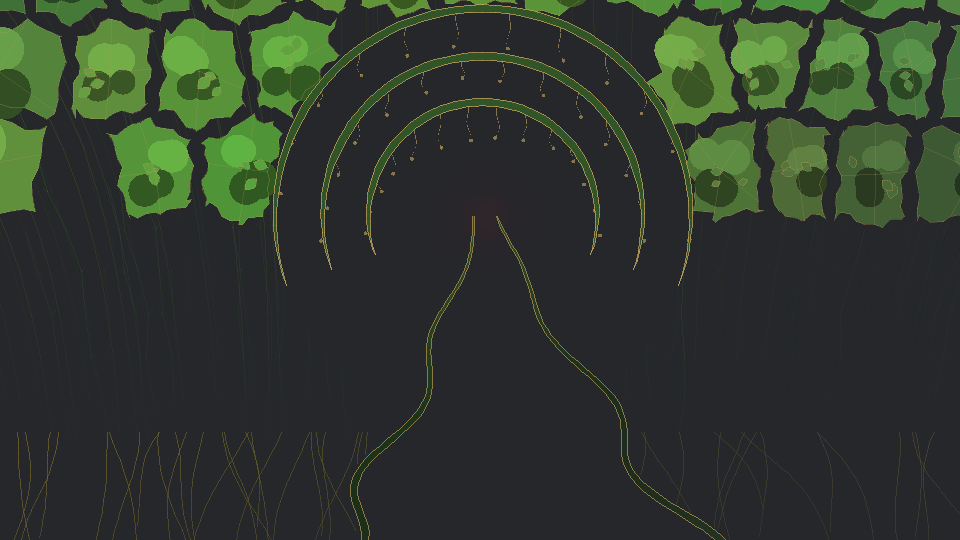
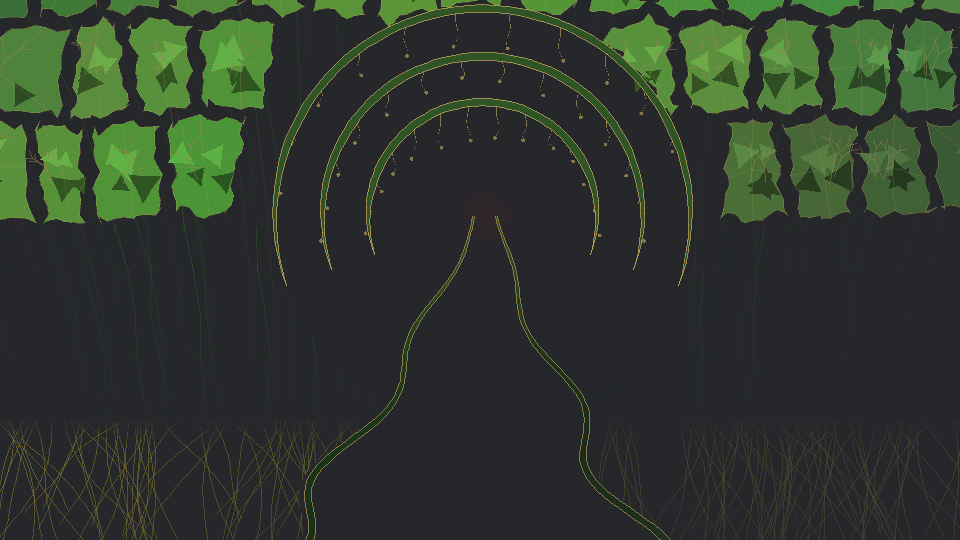
Heartwood (flagship): angular/fractal canopy texture; clustered roots
- Canopy: smaller crown sections; replace the soft inner circles with an
  angular fractal interior — faceted shards (two-tone for volume) plus
  recursive branching fronds. Crown-shyness channels preserved.
- Roots: thicker and more numerous, grouped into a clustered fan (2-4 per
  tree), with an alpha fade-in at the top so they blend into where the
  trees fade out.
- Refresh the flagship thumbnail and Wallpaper Engine zip.

diff --git a/heartwood.html b/heartwood.html
@@ -426,15 +426,18 @@
         var dxc = Math.max(-1, Math.min(1, (baseX - w * 0.5) / (w * 0.5))); // -1 left .. +1 right
         var edge = Math.max(0, (Math.abs(dxc) - 0.25) / 0.75);            // 0 near path, 1 at edge
         var centerF = 1 + 0.35 * (1 - Math.abs(dxc));                     // trees nearer centre thicker
-        var rootDefs = [];                                               // fewer, varied descending roots
-        var nrk = Math.random() < 0.55 ? (Math.random() < 0.25 ? 2 : 1) : 0;
-        for (var rk = 0; rk < nrk; rk++) {
-          rootDefs.push({
-            dx: (Math.random() - 0.5) * minDim * 0.012,   // slight start offset
-            dir: (Math.random() - 0.5) * 1.0, lenF: 0.72 + Math.random() * 0.6,
-            coil: 0.08 + Math.random() * 0.24, amp: 0.16 + Math.random() * 0.3,
-            ph: Math.random() * Math.PI * 2, spd: 0.4 + Math.random() * 0.6, thick: 0.75 + Math.random() * 1.15
-          });
+        var rootDefs = [];                                               // a clustered fan of descending roots
+        if (Math.random() < 0.72) {
+          var nrk = 2 + Math.floor(Math.random() * 3);                   // 2-4 roots per cluster
+          for (var rk = 0; rk < nrk; rk++) {
+            var rfrac = nrk > 1 ? rk / (nrk - 1) : 0.5;
+            rootDefs.push({
+              dx: (rfrac - 0.5) * minDim * 0.028 + (Math.random() - 0.5) * minDim * 0.006, // clustered fan offset
+              dir: (rfrac - 0.5) * 0.95 + (Math.random() - 0.5) * 0.25, lenF: 0.75 + Math.random() * 0.55,
+              coil: 0.08 + Math.random() * 0.24, amp: 0.16 + Math.random() * 0.3,
+              ph: Math.random() * Math.PI * 2, spd: 0.4 + Math.random() * 0.6, thick: 1.0 + Math.random() * 1.3
+            });
+          }
         }
         trees.push({
           x: baseX,
@@ -779,21 +782,22 @@
                        + rt.coil * Math.sin(prog * 2 + rt.ph);
         ang += (Math.PI / 2 - ang) * 0.06;                 // gentle pull back toward down
         x += Math.cos(ang) * step; y += Math.sin(ang) * step;
-        var wd = baseThick * rt.thick * Math.pow(1 - prog, 0.7) + 0.4;
-        var style = 'hsla(' + rhue + ', ' + rsat + '%, ' + rl + '%, ' + (0.62 * (1 - 0.4 * prog)).toFixed(3) + ')';
+        var wd = baseThick * rt.thick * Math.pow(1 - prog, 0.7) + 0.5;
+        var aRoot = 0.62 * Math.min(1, prog * 4) * (1 - 0.3 * prog); // fade in at the top, taper at the tip
+        var style = 'hsla(' + rhue + ', ' + rsat + '%, ' + rl + '%, ' + aRoot.toFixed(3) + ')';
         drawRootSeg(ctx, prev, { x: x, y: y }, style, wd, ax, ay, w, h, margin);
         prev = { x: x, y: y };
       }
     }
 
     function drawRoots(ctx, w, h, t, ax, ay) {
-      var gy = h * 0.8, margin = minDim * 0.01;
+      var gy = h * 0.78, margin = minDim * 0.01;
       for (var i = 0; i < trees.length; i++) {
         var tr = trees[i], gx = tr.x;
         if (rootCleared(gx, gy, ax, ay, w, h, margin)) continue; // no tree here -> no roots
         var c = color.getCellColor(gx, gy, w, h);
         var rhue = c.h + (30 - c.h) * 0.72, rsat = Math.min(52, c.s * 1.15), rl = Math.min(40, c.l * 0.85);
-        var baseThick = 1.0 + 1.6 * tr.z;
+        var baseThick = 1.6 + 2.4 * tr.z;
         for (var k = 0; k < tr.roots.length; k++) growTreeRoot(ctx, gx, gy, tr.roots[k], i * 7 + k, t, ax, ay, w, h, baseThick, rhue, rsat, rl);
       }
     }
@@ -859,12 +863,21 @@
       return samp;
     }
 
+    // A fractal frond: an angular, self-similar branch (precomputed segments).
+    function buildFrond(x, y, ang, len, depth, out) {
+      var ex = x + Math.cos(ang) * len, ey = y + Math.sin(ang) * len;
+      out.push({ ax: x, ay: y, bx: ex, by: ey });
+      if (depth <= 0) return;
+      buildFrond(ex, ey, ang - 0.6, len * 0.6, depth - 1, out);
+      buildFrond(ex, ey, ang + 0.6, len * 0.6, depth - 1, out);
+    }
+
     function buildCanopy(w, h) {
       crowns = [];
       var ax = w * 0.5, ay = h * apexFrac.y;
       var Rbase = Math.min(ay * 0.96, minDim * 0.62) * 1.013;       // ring radius incl. max breath
       var CH = minDim * 0.014, LOBE = CH * 0.6, rimClamp = Rbase + CH + LOBE;
-      var spacing = minDim * 0.15, bandTop = -h * 0.06, drawBot = h * 0.33, gridBot = h * 0.5;
+      var spacing = minDim * 0.13, bandTop = -h * 0.06, drawBot = h * 0.33, gridBot = h * 0.5;
       var cols = Math.max(4, Math.round(w / spacing));
       var rows = Math.max(3, Math.round((gridBot - bandTop) / spacing));
       var seeds = [];
@@ -904,18 +917,22 @@
           if (rd < rimClamp) { var fz = rimClamp / rd; p.x = ax + rx * fz; p.y = ay + ry * fz; p.nx = rx / rd; p.ny = ry / rd; }
         }
         var col = color.getCellColor(cen.x, Math.max(0, cen.y), w, h), ext = Math.sqrt(polyArea(poly));
-        var clumps = [], dabs = [];
-        for (var cl = 0; cl < 4; cl++) {
-          var top = cl < 2;
-          clumps.push({ x: cen.x + (Math.random() - 0.5) * ext * 0.4, y: cen.y + (top ? -1 : 1) * ext * (0.08 + Math.random() * 0.14), r: ext * (0.13 + Math.random() * 0.09), light: top });
+        var shards = [], fronds = [];
+        for (var sh = 0; sh < 4; sh++) {                          // angular faceted shards (two-tone volume)
+          var top = sh < 2, scx = cen.x + (Math.random() - 0.5) * ext * 0.5, scy = cen.y + (top ? -1 : 1) * ext * (0.06 + Math.random() * 0.16);
+          var sr = ext * (0.12 + Math.random() * 0.1), nn = 6, base = Math.random() * Math.PI * 2, sp = [];
+          for (var v = 0; v < nn; v++) { var aa = base + v / nn * Math.PI * 2, rr = sr * (v % 2 === 0 ? 1 : 0.45); sp.push({ x: scx + Math.cos(aa) * rr, y: scy + Math.sin(aa) * rr }); }
+          shards.push({ pts: sp, light: top });
         }
-        for (var dd = 0; dd < 3; dd++) {
-          dabs.push({ ox: (Math.random() - 0.5) * ext * 0.45, oy: (Math.random() - 0.5) * ext * 0.38, ang: Math.random() * Math.PI * 2, L: ext * (0.11 + Math.random() * 0.07) });
+        for (var fr = 0; fr < 2; fr++) {                          // fractal fronds (angular, self-similar)
+          var fseg = [];
+          buildFrond(cen.x + (Math.random() - 0.5) * ext * 0.35, cen.y + ext * (0.05 + Math.random() * 0.12), -Math.PI / 2 + (Math.random() - 0.5) * 1.0, ext * (0.22 + Math.random() * 0.1), 2, fseg);
+          fronds.push(fseg);
         }
         crowns.push({
           samp: samp, cen: cen, CH: CH, LOBE: LOBE, seed: i * 1.7, seed2: i * 3.1,
           hue: col.h + (112 - col.h) * 0.5, sat: Math.min(48, col.s * 1.0), lit: Math.min(40, col.l * 0.82),
-          clumps: clumps, dabs: dabs
+          shards: shards, fronds: fronds
         });
       }
     }
@@ -931,14 +948,13 @@
           outer.push({ x: p.x - p.nx * inset, y: p.y - p.ny * inset });
         }
         App.fillPolygon(ctx, outer, 'hsl(' + cr.hue + ', ' + cr.sat + '%, ' + cr.lit + '%)');
-        for (var cl = 0; cl < cr.clumps.length; cl++) {
-          var k = cr.clumps[cl], ll = k.light ? Math.min(48, cr.lit * 1.22) : cr.lit * 0.6;
-          App.fillCircle(ctx, k.x, k.y, k.r, 'hsl(' + cr.hue + ', ' + cr.sat + '%, ' + ll + '%)');
+        for (var sh = 0; sh < cr.shards.length; sh++) {           // angular shards (two-tone volume)
+          var k = cr.shards[sh], ll = k.light ? Math.min(48, cr.lit * 1.22) : cr.lit * 0.58;
+          App.fillPolygon(ctx, k.pts, 'hsl(' + cr.hue + ', ' + cr.sat + '%, ' + ll + '%)');
         }
-        for (var dd = 0; dd < cr.dabs.length; dd++) {              // interior leaf dabs (leafy texture)
-          var db = cr.dabs[dd], lp = leafShape(cr.cen.x + db.ox, cr.cen.y + db.oy, db.ang, db.L, db.L * 0.34);
-          App.fillPolygon(ctx, lp, 'hsl(' + cr.hue + ', ' + cr.sat + '%, ' + Math.min(46, cr.lit * 1.1) + '%)');
-          App.strokePolygon(ctx, lp, 'rgba(184,154,94,0.26)', 0.8);
+        for (var fr = 0; fr < cr.fronds.length; fr++) {           // fractal fronds
+          var fs = cr.fronds[fr];
+          for (var sg = 0; sg < fs.length; sg++) App.strokePolyline(ctx, [{ x: fs[sg].ax, y: fs[sg].ay }, { x: fs[sg].bx, y: fs[sg].by }], 'rgba(150,130,80,0.5)', 0.9);
         }
         App.strokePolygon(ctx, outer, 'rgba(184,154,94,0.28)', 1);   // bronze cloisonne rim
         for (var v = 0; v < 4; v++) { var idx = Math.floor((v + 0.5) / 4 * M); App.strokePolyline(ctx, [cr.cen, outer[idx]], 'rgba(184,154,94,0.20)', 0.8); }

diff --git a/src/modes/heartwood.js b/src/modes/heartwood.js
@@ -65,15 +65,18 @@
         var dxc = Math.max(-1, Math.min(1, (baseX - w * 0.5) / (w * 0.5))); // -1 left .. +1 right
         var edge = Math.max(0, (Math.abs(dxc) - 0.25) / 0.75);            // 0 near path, 1 at edge
         var centerF = 1 + 0.35 * (1 - Math.abs(dxc));                     // trees nearer centre thicker
-        var rootDefs = [];                                               // fewer, varied descending roots
-        var nrk = Math.random() < 0.55 ? (Math.random() < 0.25 ? 2 : 1) : 0;
-        for (var rk = 0; rk < nrk; rk++) {
-          rootDefs.push({
-            dx: (Math.random() - 0.5) * minDim * 0.012,   // slight start offset
-            dir: (Math.random() - 0.5) * 1.0, lenF: 0.72 + Math.random() * 0.6,
-            coil: 0.08 + Math.random() * 0.24, amp: 0.16 + Math.random() * 0.3,
-            ph: Math.random() * Math.PI * 2, spd: 0.4 + Math.random() * 0.6, thick: 0.75 + Math.random() * 1.15
-          });
+        var rootDefs = [];                                               // a clustered fan of descending roots
+        if (Math.random() < 0.72) {
+          var nrk = 2 + Math.floor(Math.random() * 3);                   // 2-4 roots per cluster
+          for (var rk = 0; rk < nrk; rk++) {
+            var rfrac = nrk > 1 ? rk / (nrk - 1) : 0.5;
+            rootDefs.push({
+              dx: (rfrac - 0.5) * minDim * 0.028 + (Math.random() - 0.5) * minDim * 0.006, // clustered fan offset
+              dir: (rfrac - 0.5) * 0.95 + (Math.random() - 0.5) * 0.25, lenF: 0.75 + Math.random() * 0.55,
+              coil: 0.08 + Math.random() * 0.24, amp: 0.16 + Math.random() * 0.3,
+              ph: Math.random() * Math.PI * 2, spd: 0.4 + Math.random() * 0.6, thick: 1.0 + Math.random() * 1.3
+            });
+          }
         }
         trees.push({
           x: baseX,
@@ -418,21 +421,22 @@
                        + rt.coil * Math.sin(prog * 2 + rt.ph);
         ang += (Math.PI / 2 - ang) * 0.06;                 // gentle pull back toward down
         x += Math.cos(ang) * step; y += Math.sin(ang) * step;
-        var wd = baseThick * rt.thick * Math.pow(1 - prog, 0.7) + 0.4;
-        var style = 'hsla(' + rhue + ', ' + rsat + '%, ' + rl + '%, ' + (0.62 * (1 - 0.4 * prog)).toFixed(3) + ')';
+        var wd = baseThick * rt.thick * Math.pow(1 - prog, 0.7) + 0.5;
+        var aRoot = 0.62 * Math.min(1, prog * 4) * (1 - 0.3 * prog); // fade in at the top, taper at the tip
+        var style = 'hsla(' + rhue + ', ' + rsat + '%, ' + rl + '%, ' + aRoot.toFixed(3) + ')';
         drawRootSeg(ctx, prev, { x: x, y: y }, style, wd, ax, ay, w, h, margin);
         prev = { x: x, y: y };
       }
     }
 
     function drawRoots(ctx, w, h, t, ax, ay) {
-      var gy = h * 0.8, margin = minDim * 0.01;
+      var gy = h * 0.78, margin = minDim * 0.01;
       for (var i = 0; i < trees.length; i++) {
         var tr = trees[i], gx = tr.x;
         if (rootCleared(gx, gy, ax, ay, w, h, margin)) continue; // no tree here -> no roots
         var c = color.getCellColor(gx, gy, w, h);
         var rhue = c.h + (30 - c.h) * 0.72, rsat = Math.min(52, c.s * 1.15), rl = Math.min(40, c.l * 0.85);
-        var baseThick = 1.0 + 1.6 * tr.z;
+        var baseThick = 1.6 + 2.4 * tr.z;
         for (var k = 0; k < tr.roots.length; k++) growTreeRoot(ctx, gx, gy, tr.roots[k], i * 7 + k, t, ax, ay, w, h, baseThick, rhue, rsat, rl);
       }
     }
@@ -498,12 +502,21 @@
       return samp;
     }
 
+    // A fractal frond: an angular, self-similar branch (precomputed segments).
+    function buildFrond(x, y, ang, len, depth, out) {
+      var ex = x + Math.cos(ang) * len, ey = y + Math.sin(ang) * len;
+      out.push({ ax: x, ay: y, bx: ex, by: ey });
+      if (depth <= 0) return;
+      buildFrond(ex, ey, ang - 0.6, len * 0.6, depth - 1, out);
+      buildFrond(ex, ey, ang + 0.6, len * 0.6, depth - 1, out);
+    }
+
     function buildCanopy(w, h) {
       crowns = [];
       var ax = w * 0.5, ay = h * apexFrac.y;
       var Rbase = Math.min(ay * 0.96, minDim * 0.62) * 1.013;       // ring radius incl. max breath
       var CH = minDim * 0.014, LOBE = CH * 0.6, rimClamp = Rbase + CH + LOBE;
-      var spacing = minDim * 0.15, bandTop = -h * 0.06, drawBot = h * 0.33, gridBot = h * 0.5;
+      var spacing = minDim * 0.13, bandTop = -h * 0.06, drawBot = h * 0.33, gridBot = h * 0.5;
       var cols = Math.max(4, Math.round(w / spacing));
       var rows = Math.max(3, Math.round((gridBot - bandTop) / spacing));
       var seeds = [];
@@ -543,18 +556,22 @@
           if (rd < rimClamp) { var fz = rimClamp / rd; p.x = ax + rx * fz; p.y = ay + ry * fz; p.nx = rx / rd; p.ny = ry / rd; }
         }
         var col = color.getCellColor(cen.x, Math.max(0, cen.y), w, h), ext = Math.sqrt(polyArea(poly));
-        var clumps = [], dabs = [];
-        for (var cl = 0; cl < 4; cl++) {
-          var top = cl < 2;
-          clumps.push({ x: cen.x + (Math.random() - 0.5) * ext * 0.4, y: cen.y + (top ? -1 : 1) * ext * (0.08 + Math.random() * 0.14), r: ext * (0.13 + Math.random() * 0.09), light: top });
+        var shards = [], fronds = [];
+        for (var sh = 0; sh < 4; sh++) {                          // angular faceted shards (two-tone volume)
+          var top = sh < 2, scx = cen.x + (Math.random() - 0.5) * ext * 0.5, scy = cen.y + (top ? -1 : 1) * ext * (0.06 + Math.random() * 0.16);
+          var sr = ext * (0.12 + Math.random() * 0.1), nn = 6, base = Math.random() * Math.PI * 2, sp = [];
+          for (var v = 0; v < nn; v++) { var aa = base + v / nn * Math.PI * 2, rr = sr * (v % 2 === 0 ? 1 : 0.45); sp.push({ x: scx + Math.cos(aa) * rr, y: scy + Math.sin(aa) * rr }); }
+          shards.push({ pts: sp, light: top });
         }
-        for (var dd = 0; dd < 3; dd++) {
-          dabs.push({ ox: (Math.random() - 0.5) * ext * 0.45, oy: (Math.random() - 0.5) * ext * 0.38, ang: Math.random() * Math.PI * 2, L: ext * (0.11 + Math.random() * 0.07) });
+        for (var fr = 0; fr < 2; fr++) {                          // fractal fronds (angular, self-similar)
+          var fseg = [];
+          buildFrond(cen.x + (Math.random() - 0.5) * ext * 0.35, cen.y + ext * (0.05 + Math.random() * 0.12), -Math.PI / 2 + (Math.random() - 0.5) * 1.0, ext * (0.22 + Math.random() * 0.1), 2, fseg);
+          fronds.push(fseg);
         }
         crowns.push({
           samp: samp, cen: cen, CH: CH, LOBE: LOBE, seed: i * 1.7, seed2: i * 3.1,
           hue: col.h + (112 - col.h) * 0.5, sat: Math.min(48, col.s * 1.0), lit: Math.min(40, col.l * 0.82),
-          clumps: clumps, dabs: dabs
+          shards: shards, fronds: fronds
         });
       }
     }
@@ -570,14 +587,13 @@
           outer.push({ x: p.x - p.nx * inset, y: p.y - p.ny * inset });
         }
         App.fillPolygon(ctx, outer, 'hsl(' + cr.hue + ', ' + cr.sat + '%, ' + cr.lit + '%)');
-        for (var cl = 0; cl < cr.clumps.length; cl++) {
-          var k = cr.clumps[cl], ll = k.light ? Math.min(48, cr.lit * 1.22) : cr.lit * 0.6;
-          App.fillCircle(ctx, k.x, k.y, k.r, 'hsl(' + cr.hue + ', ' + cr.sat + '%, ' + ll + '%)');
+        for (var sh = 0; sh < cr.shards.length; sh++) {           // angular shards (two-tone volume)
+          var k = cr.shards[sh], ll = k.light ? Math.min(48, cr.lit * 1.22) : cr.lit * 0.58;
+          App.fillPolygon(ctx, k.pts, 'hsl(' + cr.hue + ', ' + cr.sat + '%, ' + ll + '%)');
         }
-        for (var dd = 0; dd < cr.dabs.length; dd++) {              // interior leaf dabs (leafy texture)
-          var db = cr.dabs[dd], lp = leafShape(cr.cen.x + db.ox, cr.cen.y + db.oy, db.ang, db.L, db.L * 0.34);
-          App.fillPolygon(ctx, lp, 'hsl(' + cr.hue + ', ' + cr.sat + '%, ' + Math.min(46, cr.lit * 1.1) + '%)');
-          App.strokePolygon(ctx, lp, 'rgba(184,154,94,0.26)', 0.8);
+        for (var fr = 0; fr < cr.fronds.length; fr++) {           // fractal fronds
+          var fs = cr.fronds[fr];
+          for (var sg = 0; sg < fs.length; sg++) App.strokePolyline(ctx, [{ x: fs[sg].ax, y: fs[sg].ay }, { x: fs[sg].bx, y: fs[sg].by }], 'rgba(150,130,80,0.5)', 0.9);
         }
         App.strokePolygon(ctx, outer, 'rgba(184,154,94,0.28)', 1);   // bronze cloisonne rim
         for (var v = 0; v < 4; v++) { var idx = Math.floor((v + 0.5) / 4 * M); App.strokePolyline(ctx, [cr.cen, outer[idx]], 'rgba(184,154,94,0.20)', 0.8); }